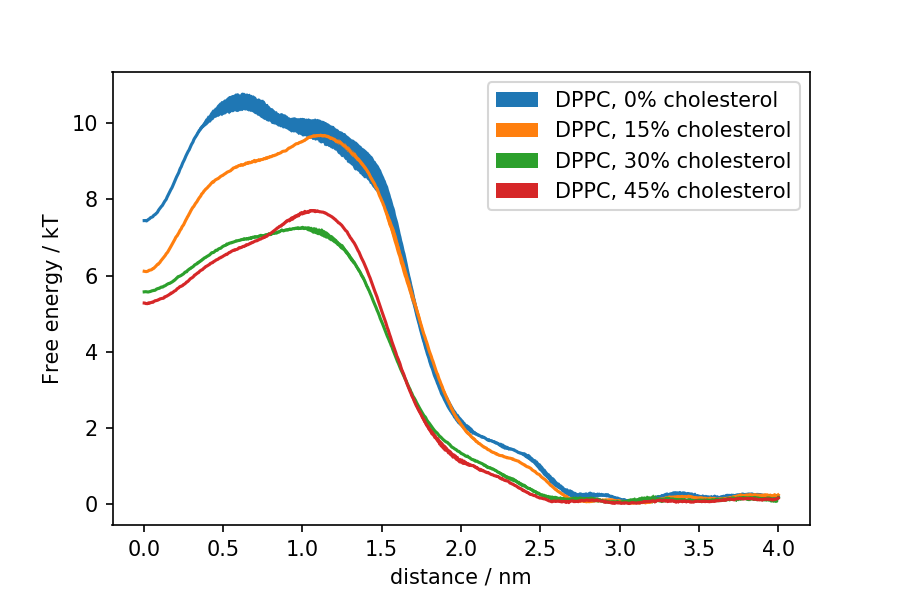
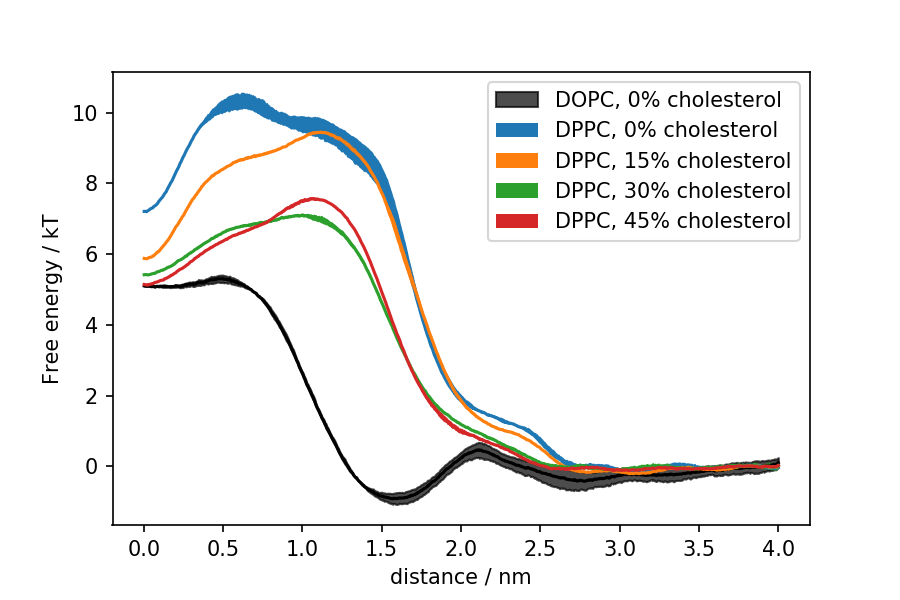
update analysis notebook - add DOPC profile to plots

diff --git a/martini3/analysis_martini3_simulations_make_dataFrame.md b/martini3/analysis_martini3_simulations_make_dataFrame.md
@@ -566,17 +566,39 @@ The plot can be futher improved
 by using a simulation snapshot as a background. 
 
 ```python
+def prep_to_plot(x, y, shift_to_zero=True):
+    """Function symmetrizes and shifts the profiles for plotting."""
+    ysymm_arr = symmetrize(y)
+    ys    = ysymm_arr[:][0]
+    yserr = ysymm_arr[:][1]
+    x_half = -x[:len(ys)]
+    if shift_to_zero:
+        delta = ys[:50].mean()
+        ys -= delta
+    return (x_half, ys, yserr)
+```
+
+```python
 for sim_list, xxpc in zip([po_sims, dp_sims], ["POPC", "DPPC"]):
+    # DOPC - reference - at the background
+    s = dopc_sim
+    (x_half, awhsym, awhsym_err) = prep_to_plot(s.awh_x, s.awh)
+    plt.plot(x_half, awhsym, color='black')
+    plt.fill_between(x=x_half, 
+                     y1=awhsym+awhsym_err,
+                     y2=awhsym-awhsym_err,
+                     label="DOPC, {}% {}sterol".format(s.sterol_conc, s.sterol_type),
+                     color='black', alpha=0.7)
+    
     for s in sim_list:
         if (xxpc == 'POPC' and s.starting_conf != 'gel') or (xxpc == 'DPPC' and s.starting_conf != 'fluid'):
-            awhsym = symmetrize(s.awh)[:][0]
-            awhsym_err = symmetrize(s.awh)[:][1]
-            x_half = -s.awh_x[:len(awhsym)]
+            (x_half, awhsym, awhsym_err) = prep_to_plot(s.awh_x, s.awh)
             plt.plot(x_half, awhsym)
             plt.fill_between(x=x_half, 
                              y1=awhsym+awhsym_err,
                              y2=awhsym-awhsym_err,
                              label="{}, {}% {}sterol".format(xxpc, s.sterol_conc, s.sterol_type))
+
     plt.legend()
     plt.ylabel("Free energy / kT")
     plt.xlabel("distance / nm")
@@ -600,13 +622,12 @@ However, at the current status it makes the necessary points.
 for sim_list, xxpc in zip([po_sims, dp_sims], ["POPC", "DPPC"]):
     for s in sim_list:
         if (xxpc == 'POPC' and s.starting_conf != 'gel') or (xxpc == 'DPPC' and s.starting_conf != 'fluid'):
-            awhsym = symmetrize(s.fric)[:][0]
-            awhsym_err = symmetrize(s.fric)[:][1]
-            x_half = -s.awh_x[:len(awhsym)]
-            plt.plot(x_half, awhsym)
+            (x_half, fricsym, fricsym_err) = prep_to_plot(s.awh_x, s.fric, shift_to_zero=False)
+            x_half = -s.awh_x[:len(fricsym)]
+            plt.plot(x_half, fricsym)
             plt.fill_between(x=x_half, 
-                             y1=awhsym+awhsym_err,
-                             y2=awhsym-awhsym_err,
+                             y1=fricsym+fricsym_err,
+                             y2=fricsym-fricsym_err,
                              label="{}, {}% {}sterol".format(xxpc, s.sterol_conc, s.sterol_type),
                              alpha=0.9)
     plt.legend()
@@ -614,6 +635,10 @@ for sim_list, xxpc in zip([po_sims, dp_sims], ["POPC", "DPPC"]):
     plt.xlabel("distance / nm")
     plt.savefig("friction_profiles_{}_sterol-concs.png".format(xxpc), dpi=150, bbox_inces='tight')
     plt.show()
+```
+
+```python
+
 ```
 
 ```python
